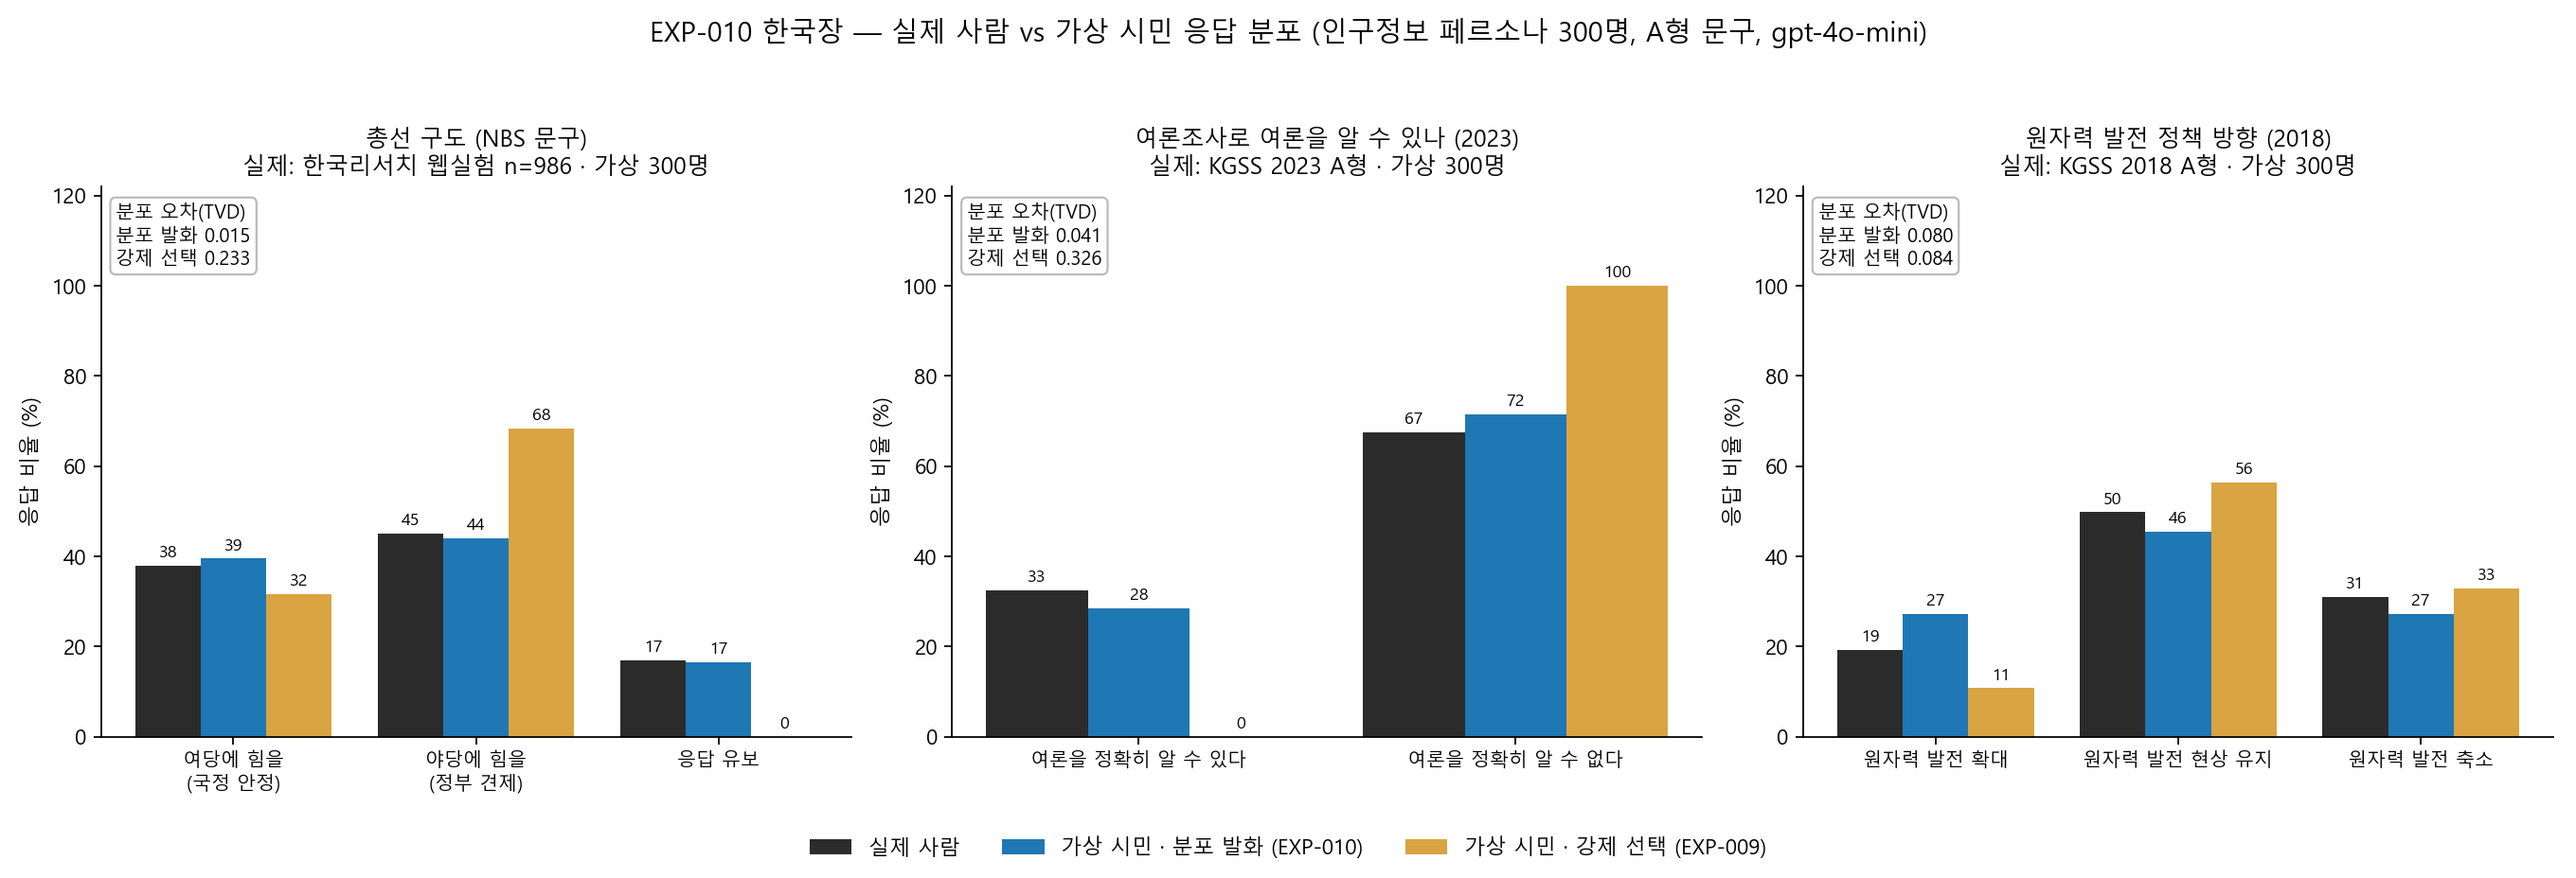
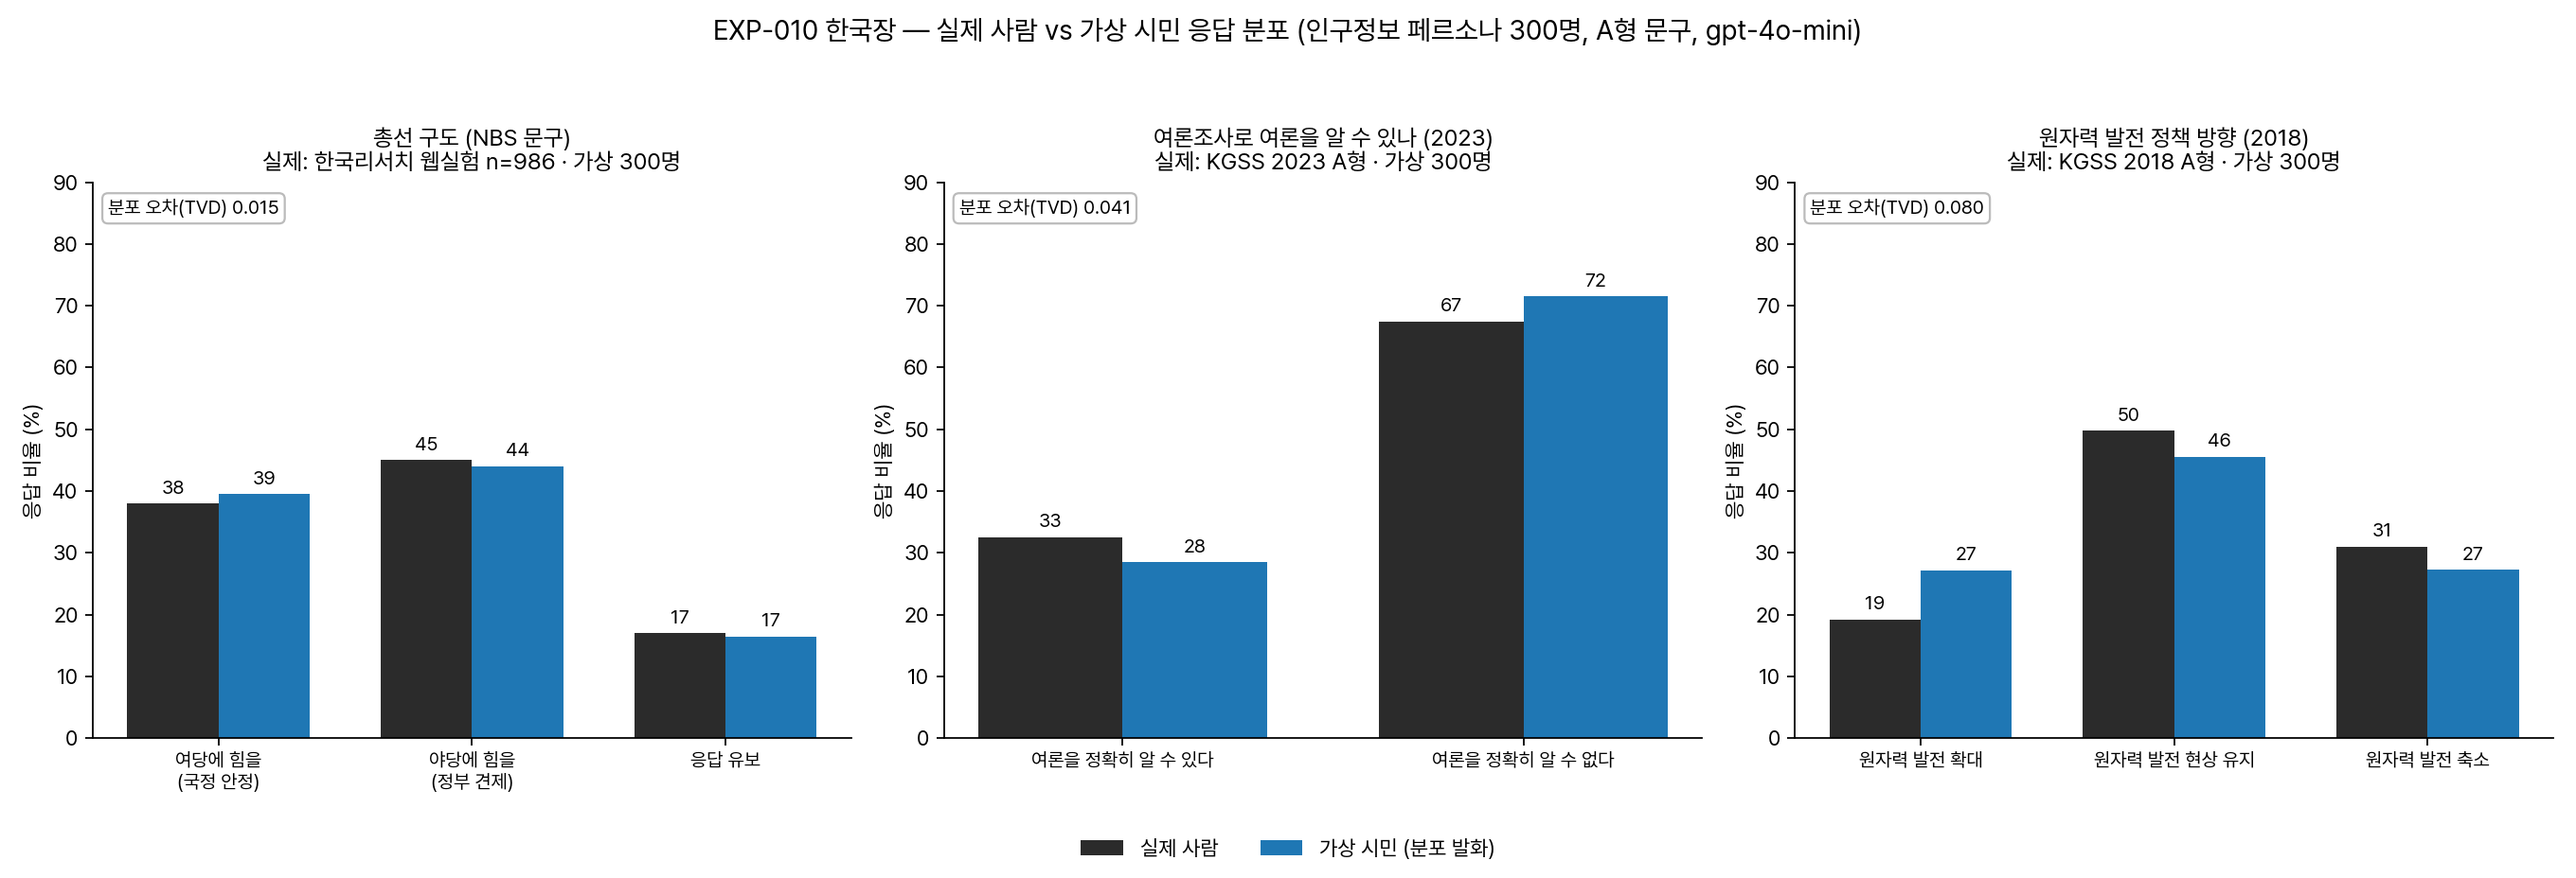
docs: EXP-010 KR chart — dist-only bars, Pretendard font (EXP-010)

diff --git a/scripts/exp010_plot_kr.py b/scripts/exp010_plot_kr.py
@@ -1,5 +1,5 @@
 # -*- coding: utf-8 -*-
-"""EXP-010 한국장 시각화: 문항 3개 × (실제 사람 / 가상 시민-분포발화 / 가상 시민-강제선택).
+"""EXP-010 한국장 시각화: 문항 3개 × (실제 사람 / 가상 시민-분포발화).
 
 기존 결과의 재표시(신규 지표 없음). 인구정보 암(DEMO), A형 문구 기준.
 SSR은 τ를 이 칸(DEMO·A형)으로 캘리브레이션해 자기채점이 되므로 제외.
@@ -20,7 +20,7 @@ ROOT = Path(__file__).resolve().parents[1]
 sys.path.insert(0, str(ROOT / "src"))
 from engine.registry import data_dir, resolve  # noqa: E402
 
-plt.rcParams["font.family"] = "Malgun Gothic"
+plt.rcParams["font.family"] = "Pretendard"
 plt.rcParams["axes.unicode_minus"] = False
 
 D9, D10 = data_dir() / "exp009", data_dir() / "exp010"
@@ -35,12 +35,6 @@ num = df.apply(pd.to_numeric, errors="coerce").where(lambda x: x >= 0)
 def kgss_dist(var, year, keys):
     s = num.loc[df["YEAR"] == year, var].dropna()
     return {k: float((s == k).mean()) for k in keys}, len(s)
-
-
-def forced(item, keys):
-    preds = [r["pred"] for r in map(json.loads, open(D9 / "kr_raw.jsonl", encoding="utf-8"))
-             if r.get("pred") is not None and r["item"] == item and r["arm"] == ARM and r["form"] == FORM]
-    return {k: preds.count(k) / len(preds) for k in keys}, len(preds)
 
 
 def dist(item, keys):
@@ -69,33 +63,30 @@ QUESTIONS = [
 ]
 
 fig, axes = plt.subplots(1, 3, figsize=(17, 5.8))
-series = [("실제 사람", "#2b2b2b"), ("가상 시민 · 분포 발화 (EXP-010)", "#1f77b4"),
-          ("가상 시민 · 강제 선택 (EXP-009)", "#d9a441")]
+series = [("실제 사람", "#2b2b2b"), ("가상 시민 (분포 발화)", "#1f77b4")]
 for ax, (item, title, src, real_fn) in zip(axes, QUESTIONS):
     opts = items[item][FORM]["opts"]
     keys = [o["v"] for o in opts]
     real, n_real = real_fn(keys)
     dv, n_d = dist(item, keys)
-    fv, n_f = forced(item, keys)
     x = np.arange(len(keys))
-    w = 0.27
-    for j, ((name, color), vals) in enumerate(zip(series, [real, dv, fv])):
+    w = 0.36
+    for j, ((name, color), vals) in enumerate(zip(series, [real, dv])):
         ys = [vals[k] * 100 for k in keys]
-        bars = ax.bar(x + (j - 1) * w, ys, w, color=color, label=name)
+        bars = ax.bar(x + (j - 0.5) * w, ys, w, color=color, label=name)
         for b, y in zip(bars, ys):
-            ax.text(b.get_x() + b.get_width() / 2, y + 1, f"{y:.0f}", ha="center", va="bottom", fontsize=8)
+            ax.text(b.get_x() + b.get_width() / 2, y + 1, f"{y:.0f}", ha="center", va="bottom", fontsize=9)
     tvd_d = 0.5 * sum(abs(real[k] - dv[k]) for k in keys)
-    tvd_f = 0.5 * sum(abs(real[k] - fv[k]) for k in keys)
     ax.set_title(f"{title}\n{src} · 가상 {n_d}명", fontsize=11)
     ax.set_xticks(x, [short(o["label"]) for o in opts], fontsize=9)
-    ax.set_ylim(0, 122)
+    ax.set_ylim(0, 90)
     ax.set_ylabel("응답 비율 (%)")
-    ax.text(0.02, 0.97, f"분포 오차(TVD)\n분포 발화 {tvd_d:.3f}\n강제 선택 {tvd_f:.3f}",
+    ax.text(0.02, 0.97, f"분포 오차(TVD) {tvd_d:.3f}",
             transform=ax.transAxes, ha="left", va="top", fontsize=9,
             bbox=dict(boxstyle="round", fc="white", ec="#bbbbbb"))
     ax.spines[["top", "right"]].set_visible(False)
 
-fig.legend(*axes[0].get_legend_handles_labels(), loc="lower center", ncol=3, frameon=False, fontsize=10)
+fig.legend(*axes[0].get_legend_handles_labels(), loc="lower center", ncol=2, frameon=False, fontsize=10)
 fig.suptitle("EXP-010 한국장 — 실제 사람 vs 가상 시민 응답 분포 (인구정보 페르소나 300명, A형 문구, gpt-4o-mini)",
              fontsize=13)
 fig.tight_layout(rect=(0, 0.07, 1, 0.94))
